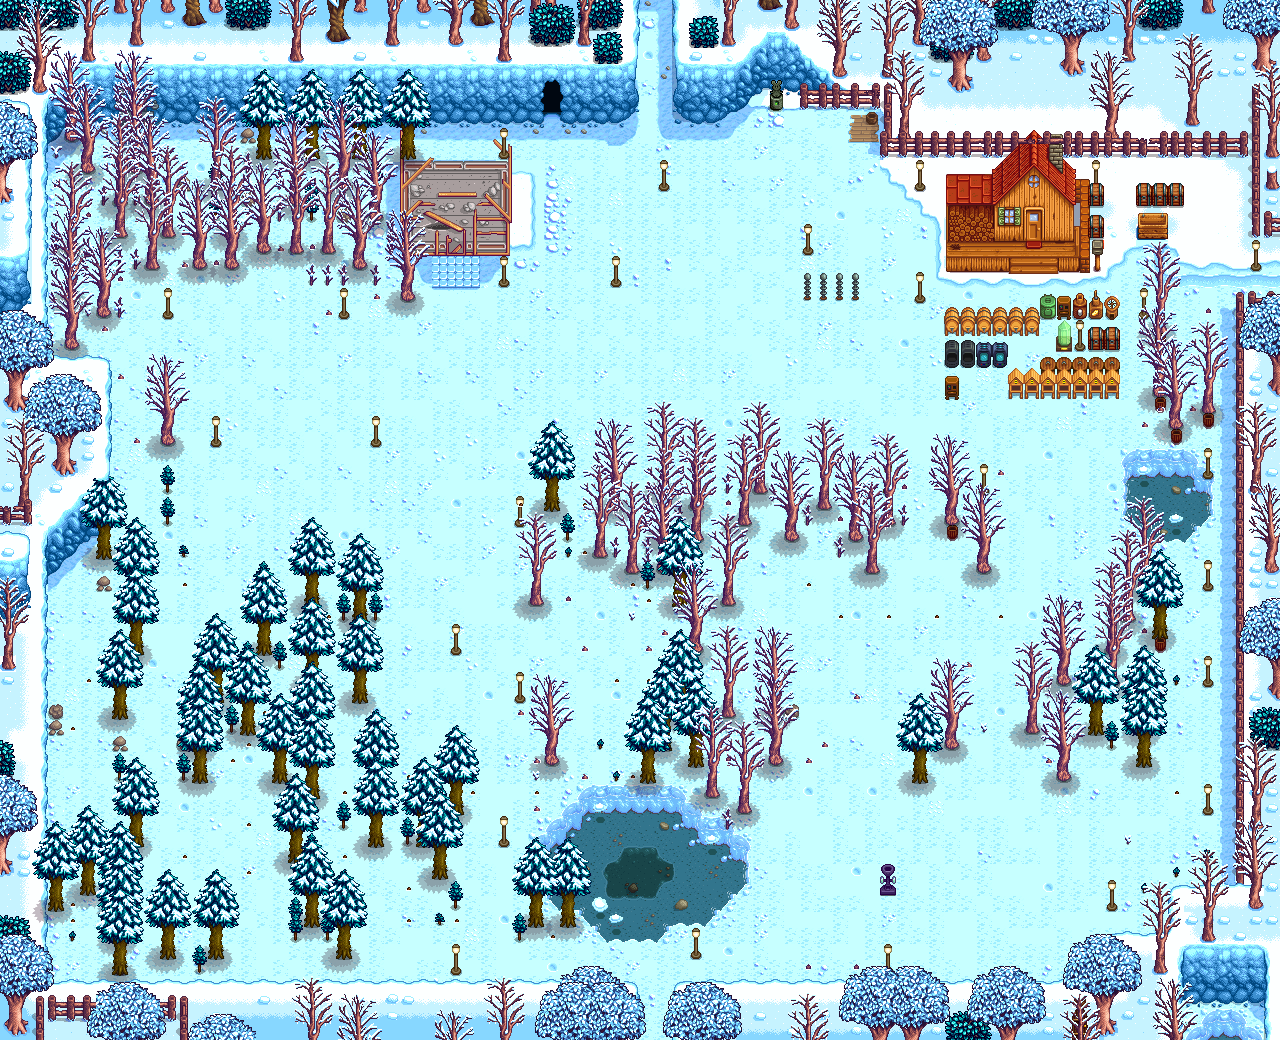
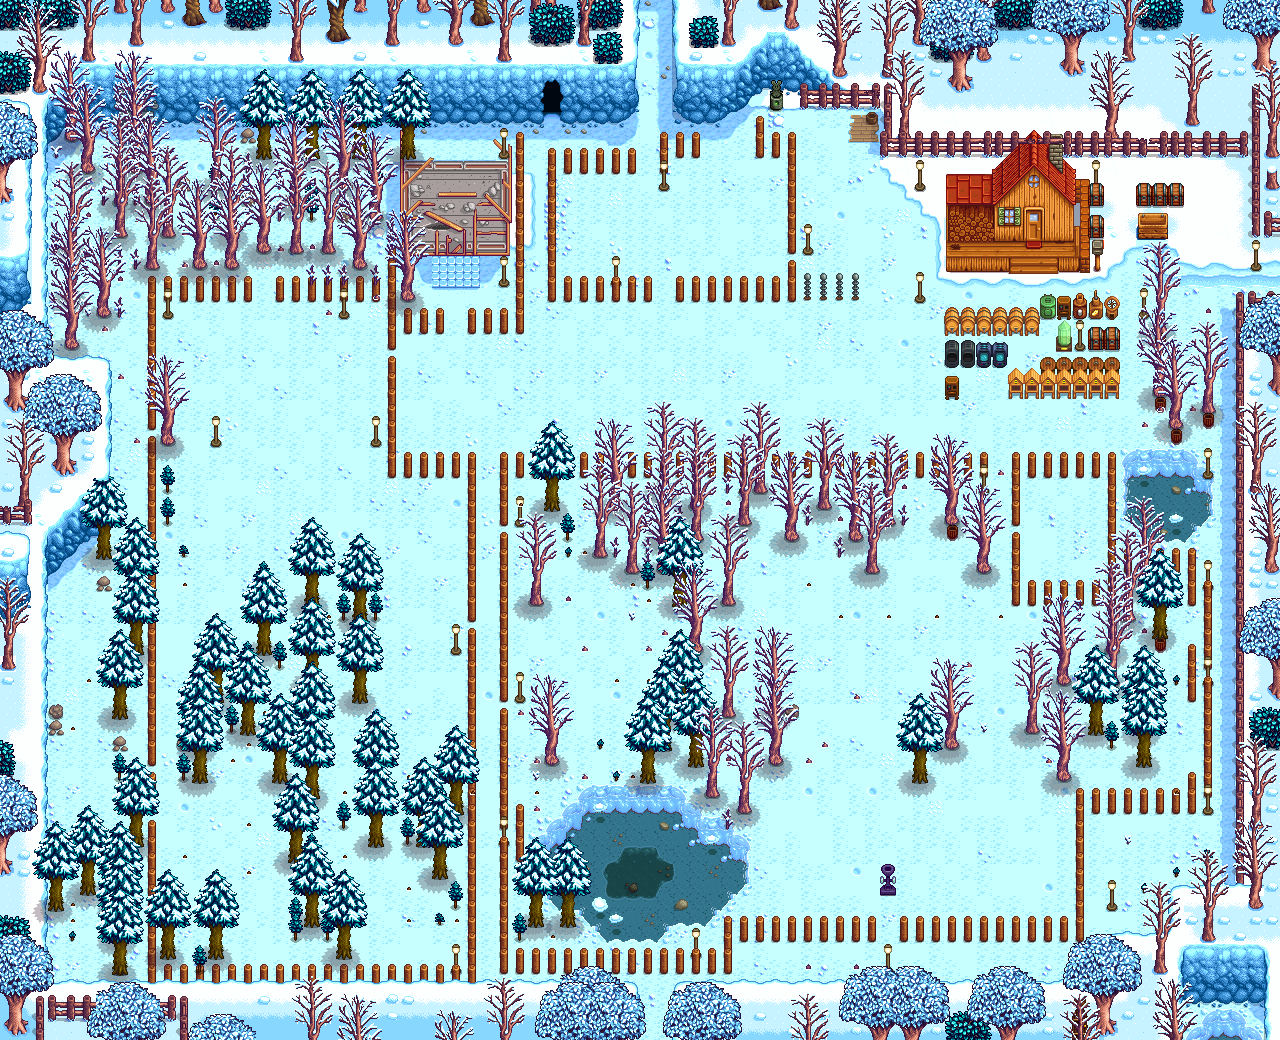
Initial support for fences

diff --git a/view/draw.go b/view/draw.go
@@ -183,8 +183,15 @@ func drawObject(pm *parser.Map, item *parser.ObjectItem, img draw.Image) {
 		case obj.BigCraftable == true:
 			tileHeight = 32
 			sourcePath = "../TileSheets/Craftables.png"
+		case obj.XSIType == "Fence":
+			if obj.WhichType == 4 {
+				return
+			}
+			sourcePath = fmt.Sprintf("../LooseSprites/Fence%d.png", obj.WhichType)
+			tileHeight = 32
+			obj.ParentSheetIndex = 5 // This is a pole with no neighbors.
 		default:
-			fmt.Printf("do not yet understand this: %v\n", obj.XML)
+			//fmt.Printf("do not yet understand this: %v\n", obj.XML)
 			return
 		}
 
@@ -194,6 +201,8 @@ func drawObject(pm *parser.Map, item *parser.ObjectItem, img draw.Image) {
 	}
 	src, err := pm.FetchSource(sourcePath)
 	if err != nil {
+		// TODO: don't panic, but make sure that we only lookup safe locations.
+		// Also cache the failure result so we don't have to check again.
 		log.Printf("Error fetching terrain asset %v: %v", sourcePath, err)
 		panic(err)
 	}

diff --git a/parser/parse_savegame.go b/parser/parse_savegame.go
@@ -103,13 +103,16 @@ type ItemValue struct {
 }
 
 type Object struct {
-	Name             string  `xml:"name"`
-	Type             string  `xml:"type"`
-	XSIType          string  `xml:"type,attr"` // the xsi:type is used by e.g: Fences
+	Name string `xml:"name"`
+	Type string `xml:"type"`
+
 	TileLocation     Vector  `xml:"tileLocation"`
 	ParentSheetIndex int     `xml:"parentSheetIndex"`
 	Health           float32 `xml:"health"`
 	BigCraftable     bool    `xml:"bigCraftable"`
+
+	XSIType   string `xml:"type,attr"` // the xsi:type is used by e.g: Fences
+	WhichType int    `xml:"whichType"` // used by Fences
 
 	XML string `xml:",innerxml"`
 }
